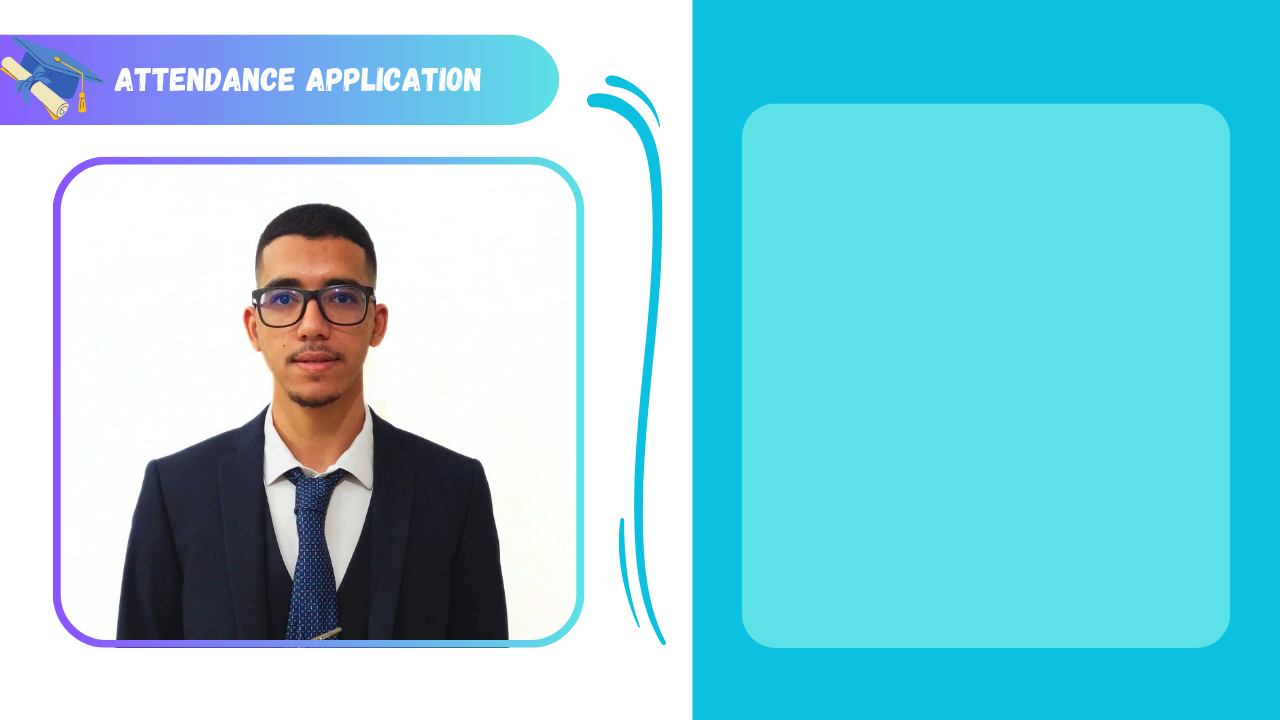
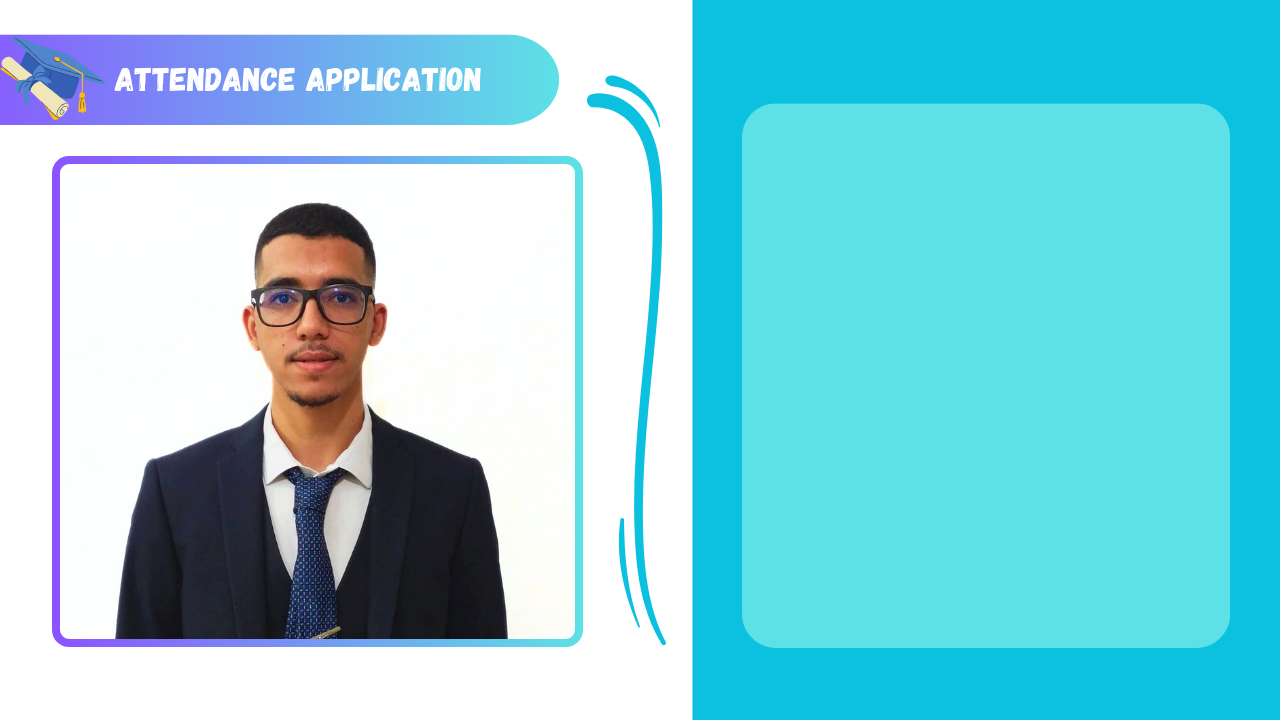
2. add Graphics interface to the app

diff --git a/main.py b/main.py
@@ -1,17 +1,43 @@
+# Outline
+#=================================>
+#=================================>
+"""
+1. Run our webcam 
+2. add Graphics interface to the app
+3. Encoding Generator
+4. Face Recognition
+5. Database Setup
+6. Add data to db
+7. Add images to db
+8. Real-time db update
+9. limit number of attendance per day
+"""
+#=================================>
+#=================================>
+
+
 import cv2
 
-
 cap = cv2.VideoCapture(0)
-cap.set(3, 450)
-cap.set(4, 415)
+cap.set(3, 531)
+cap.set(4, 491)
+
+imgBackground = cv2.imread('./Resources/Background.png')
 
 while True:
     success, img = cap.read()
+
     if not success:
         print('Failed to read frame from the camera')
         break
+
+    img = cv2.resize(img, (531 - 16, 491 - 16)) # the border size is 8px
     
-    cv2.imshow("Webcame", img)
+    img = add_border_radius(img, 50)
+    imgBackground[156+8:156+8 + 491 - 16, 52+8:52+8 + 531 - 16] = img
+    
+    cv2.imshow("Face Attendance", imgBackground)
+
     cv2.flip(img,1) # horizontally
     
     if cv2.waitKey(1) & 0xFF == ord('q'):
